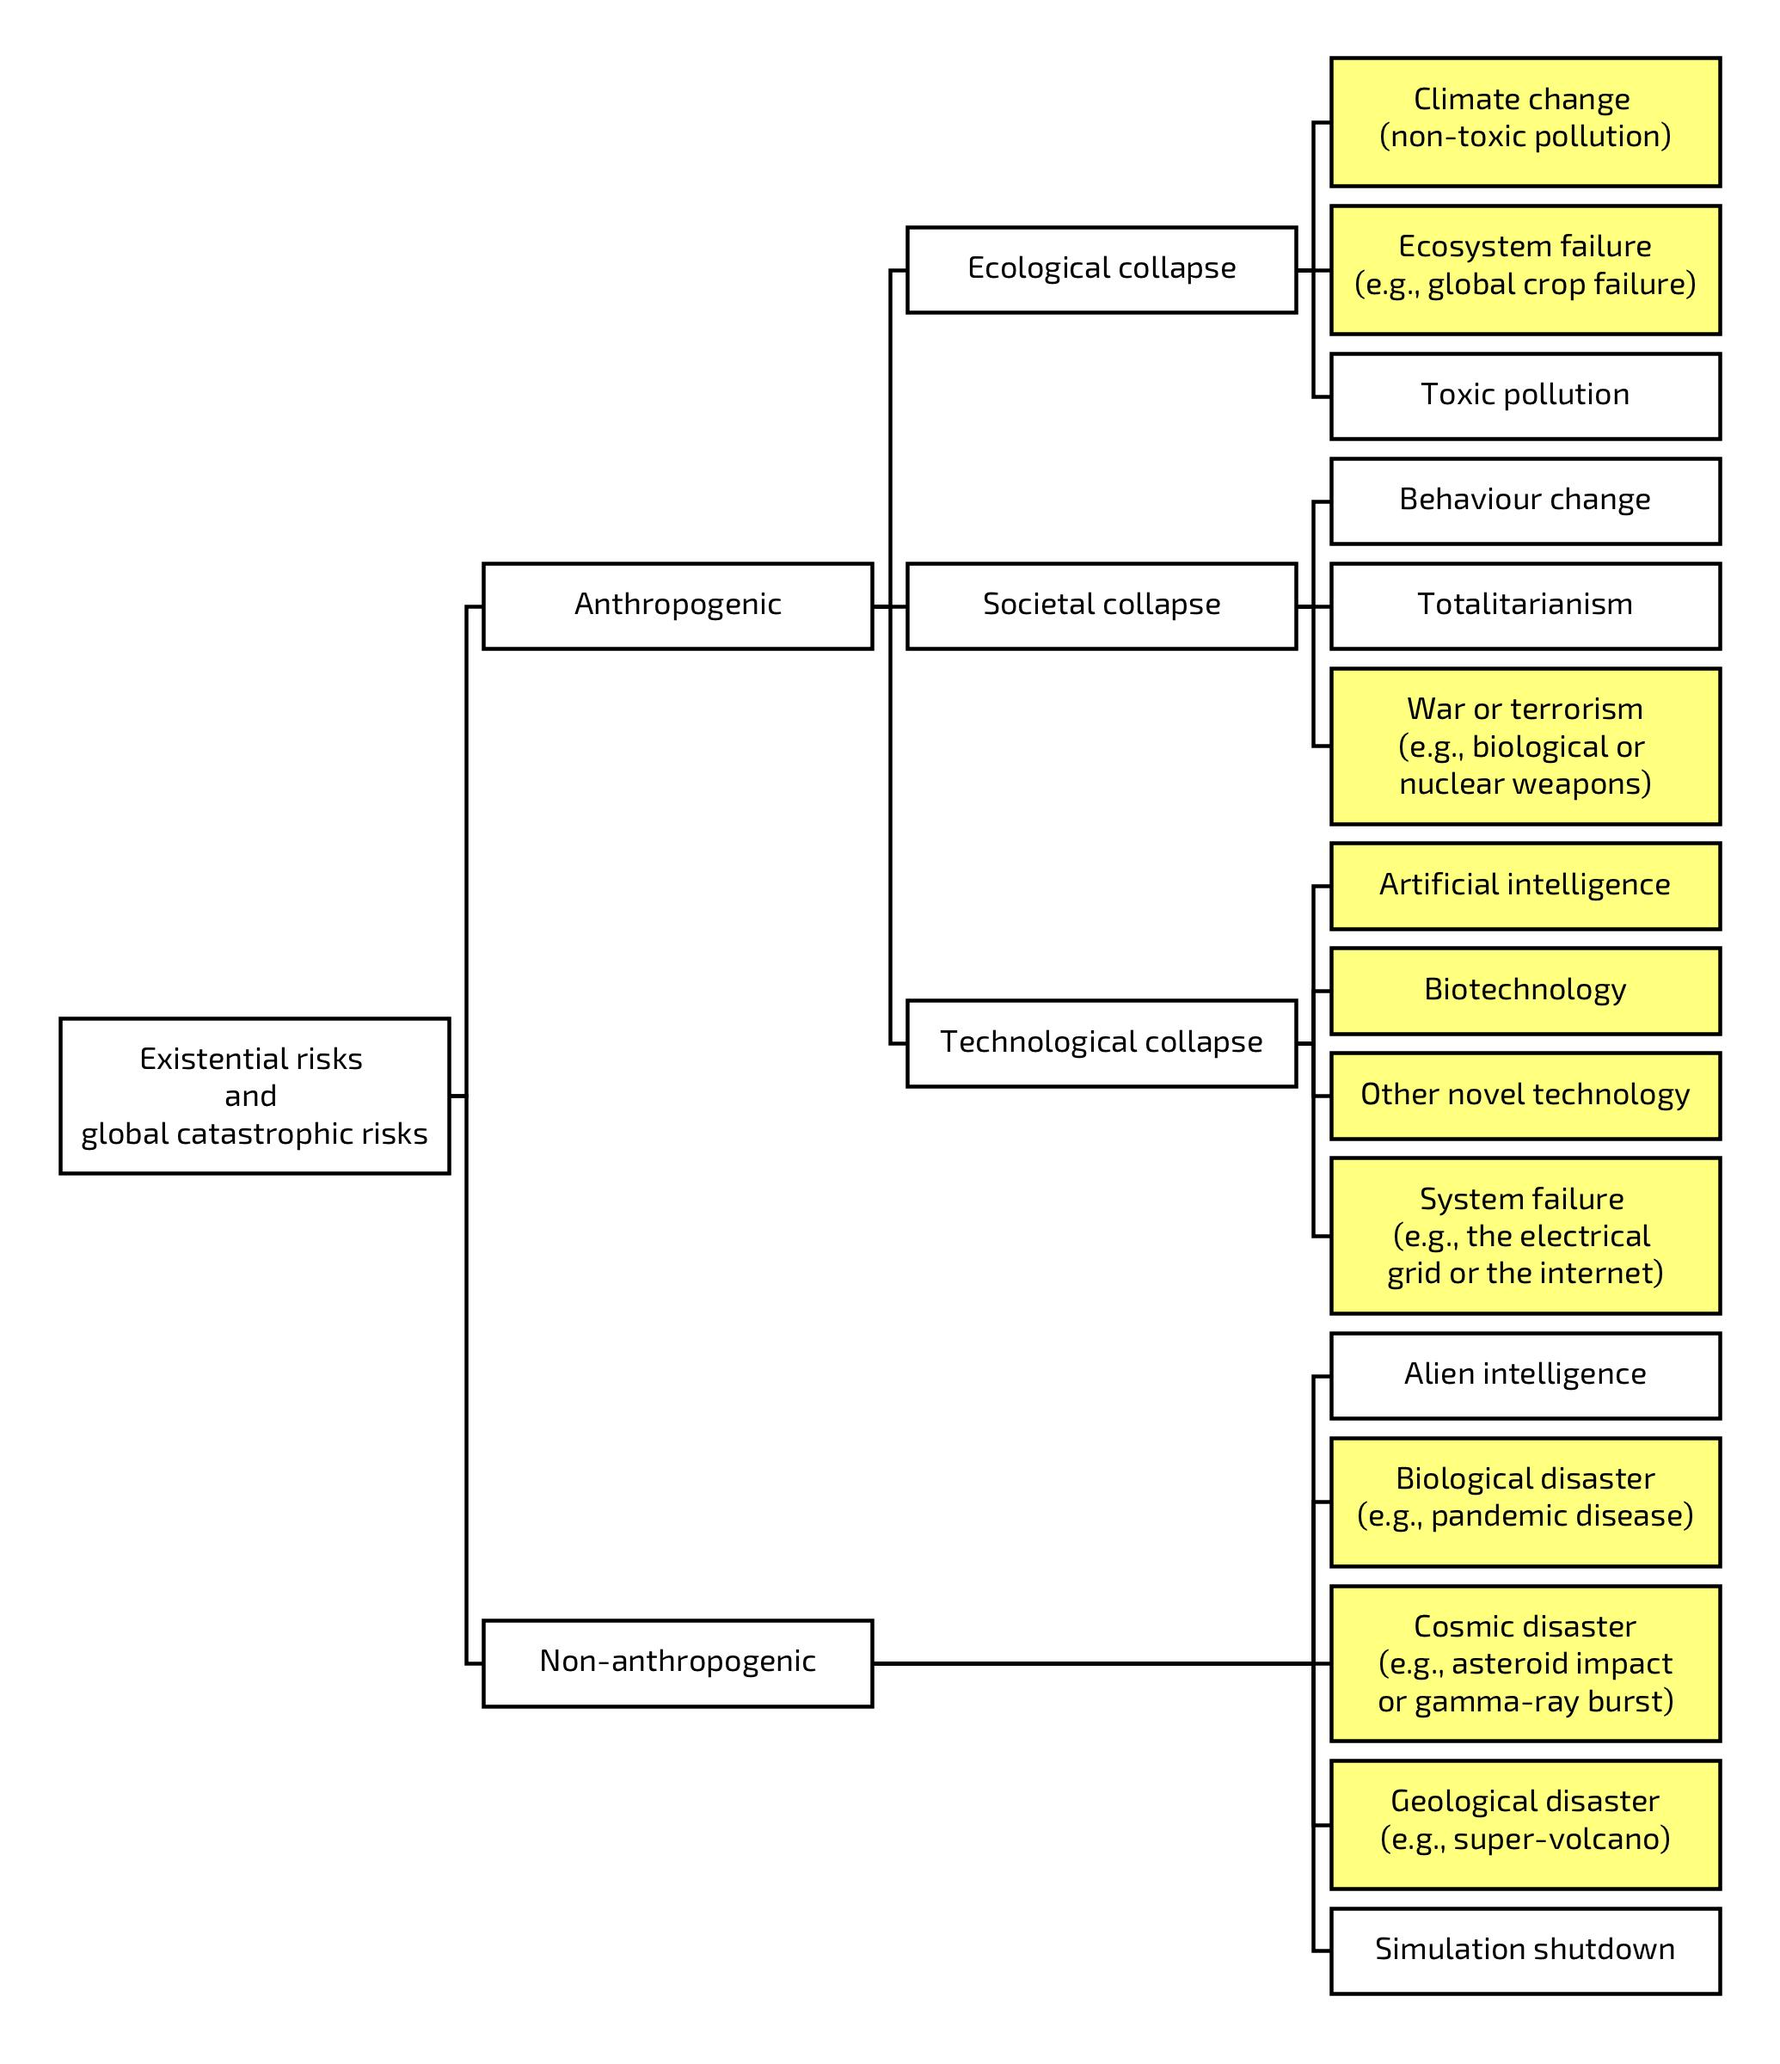
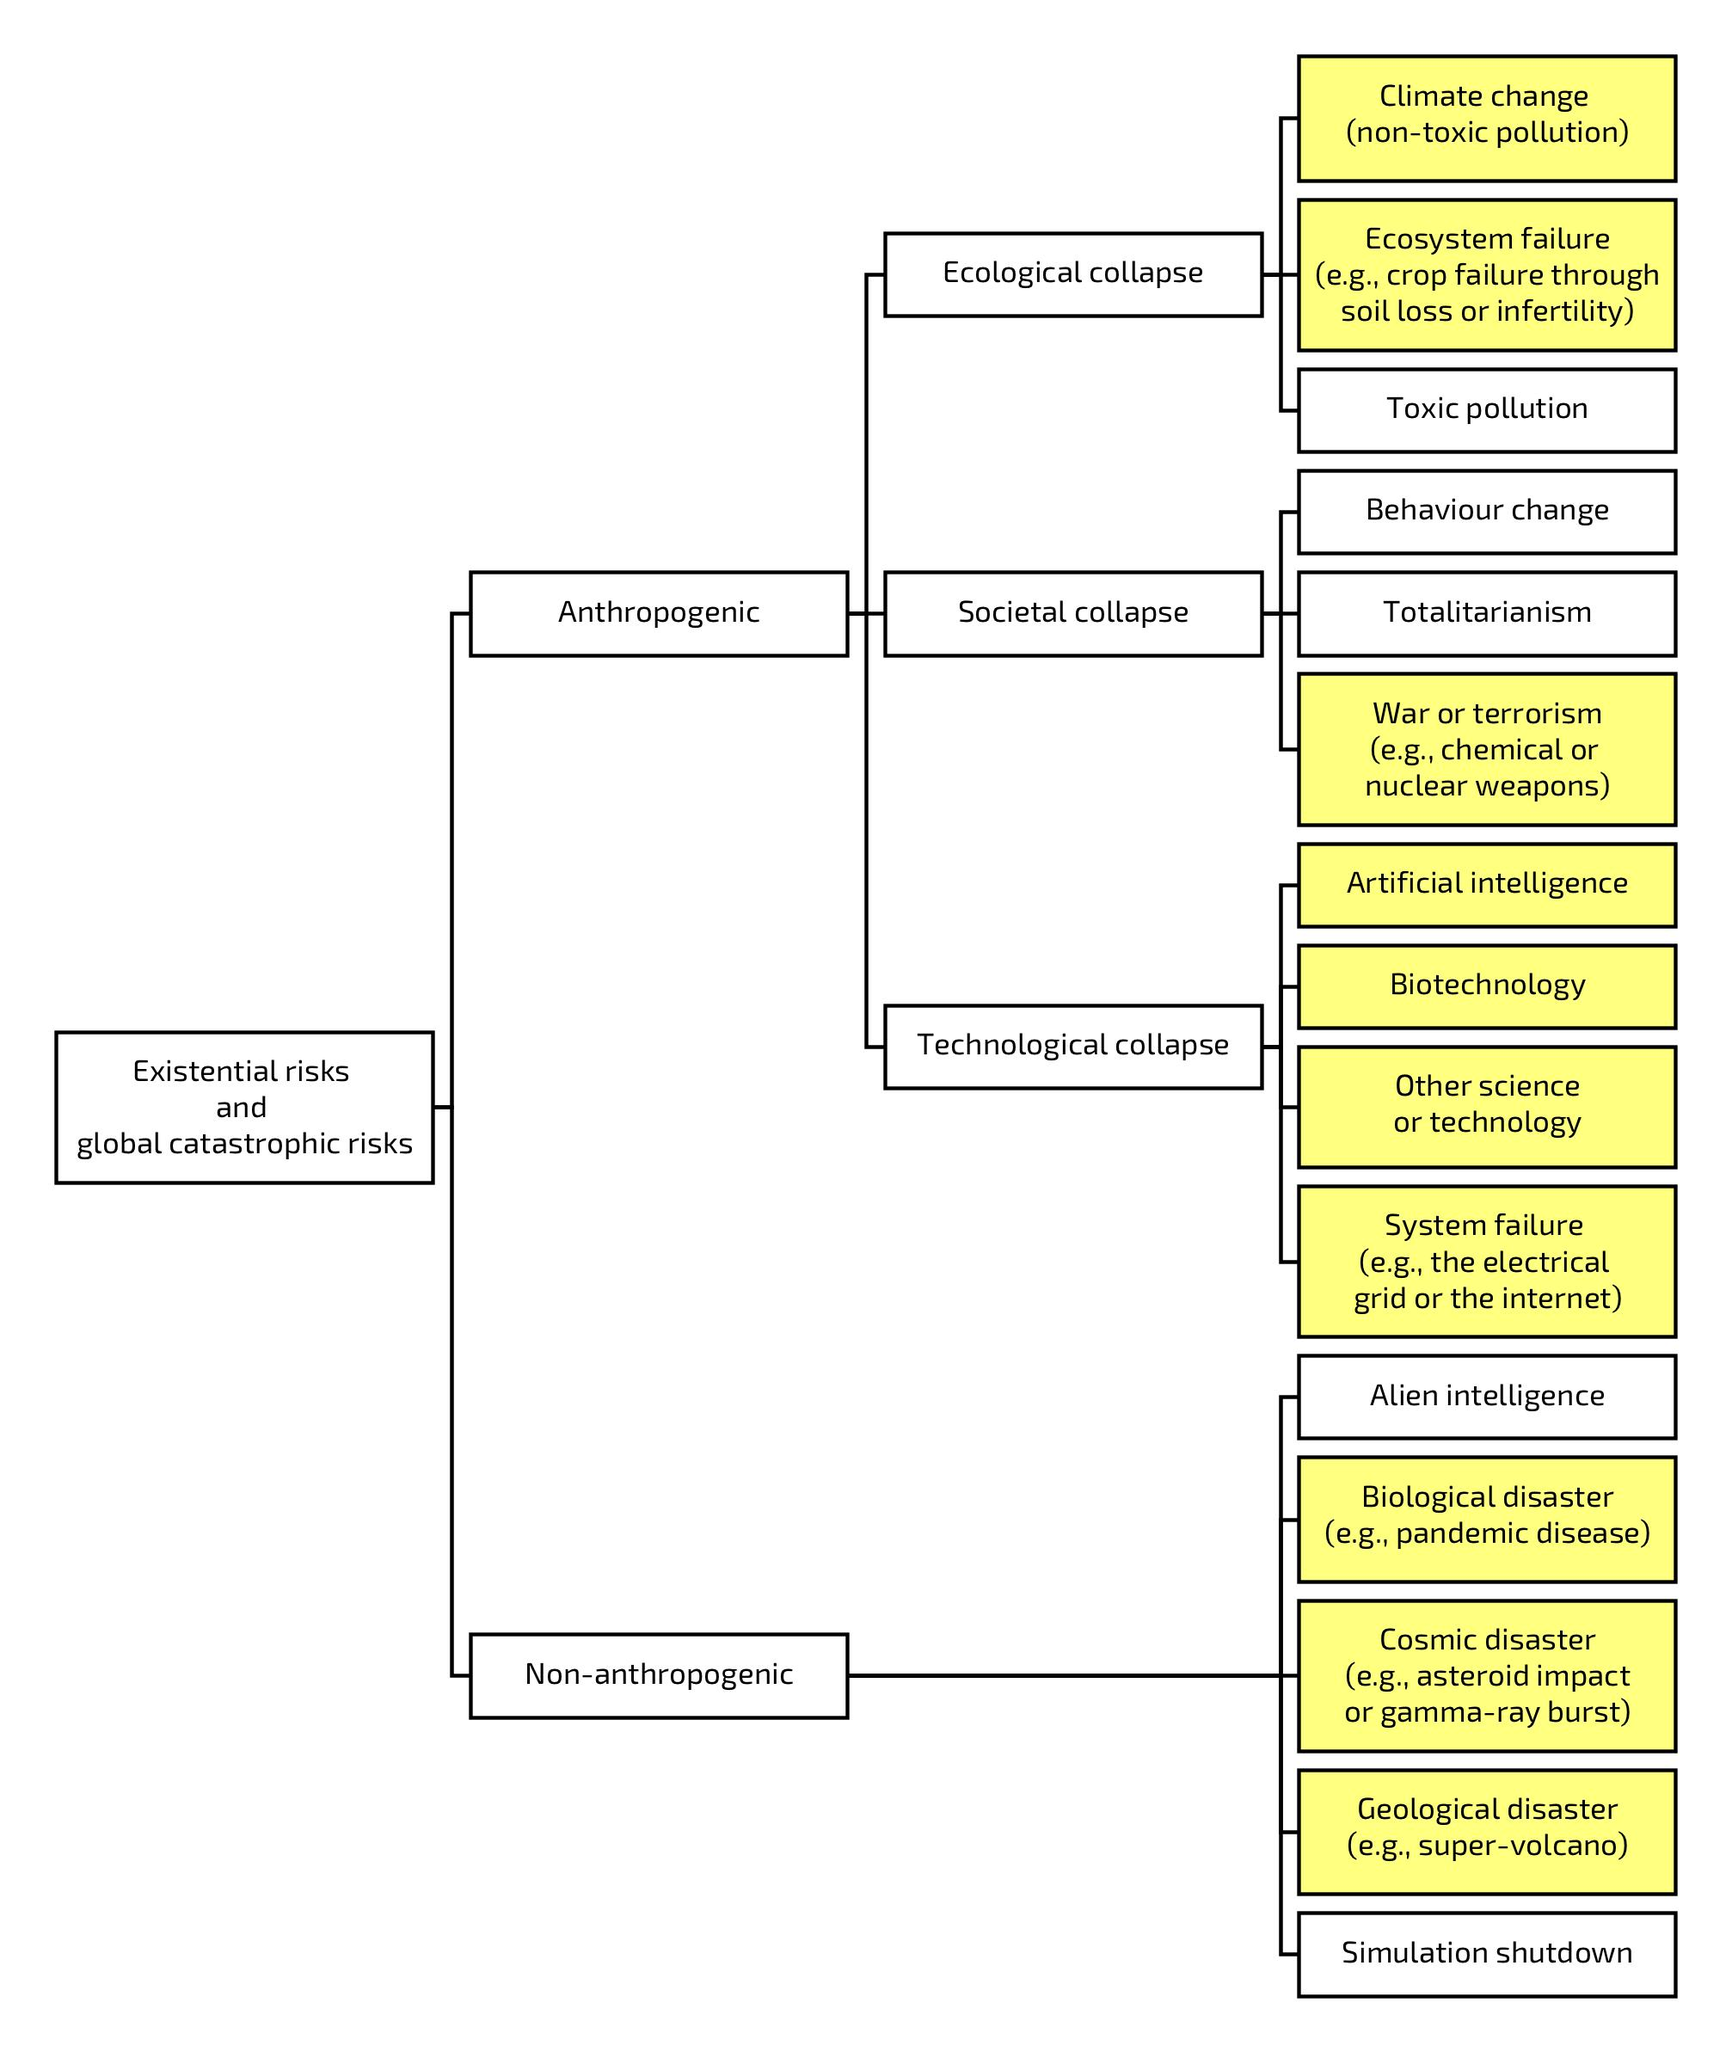
Changed text

Changed region(s): [[0.0308, 0.0312, 0.9851, 0.9688], [0.4926, 0.2812, 0.5233, 0.3125]]

diff --git a/engine/templates/engine/methods.html b/engine/templates/engine/methods.html
@@ -41,7 +41,7 @@
       <p>This category is about changes in biogeochemical cycles (such as the carbon cycle). These changes are not themselves toxic to humans (e.g., the carbon dioxide in the atmosphere is breathable), but the effects of these changes (e.g., catastrophic climate change) could cause human extinction or the end of human civilization. This differentiates this category from "toxic pollution". Publications about atmospheric pollutants and holes in the ozone layer should also be in this category.</p>
 
       <h3>Ecosystem failure</h3>
-      <p>This category is about the loss of ecosystem services (such as food production) as a consequence of ecosystem-service loss (biodiversity loss beyond an ecological tipping point). It may be difficult to differentiate this category from "climate change" (climate regulation is also an ecosystem service), but publications about climate change as a consequence of burning fossil fuels (as opposed to biodiversity loss) should not be in this category. Publications about ecosystem-service failure as a consequence of another catastrophe (e.g., nuclear winter, super-volcano, asteroid impact, or climate change) should not be in this category unless they are about biodiversity loss (e.g., as opposed to crop failure through heat, drought, or photosynthesis failure).</p>
+      <p>This category is about the loss of ecosystem services (such as food production) as a consequence of ecosystem-service loss (biodiversity loss beyond an ecological tipping point). It may be difficult to differentiate this category from "climate change" (climate regulation is also an ecosystem service), but publications about climate change as a consequence of burning fossil fuels (as opposed to biodiversity loss) should not be in this category. Publications about ecosystem-service failure as a consequence of another catastrophe (e.g., nuclear winter, super-volcano, asteroid impact, or climate change) should not be in this category unless they are about biodiversity loss (vs crop failure through heat or drought).</p>
 
       <h3>Toxic pollution</h3>
       <p>We are not focusing on this category, but it is about pollutants as a direct cause of human extinction or the end of human civilization (not as a cause of biodiversity loss or a cause of climate change).</p>
@@ -63,7 +63,7 @@
       <p>Publications about superintelligence should be in this category (but publications on lethal autonomous weapons could also be in "war or terrorism").</p>
       <h3>Biotechnology</h3>
       <p>Publications about synthetic biology and genetic engineering should be in this category (e.g., CRISPR).</p>
-      <h3>Other novel technology</h3>
+      <h3>Other science or technology</h3>
       <p>Publications about physics accidents should be in this category (e.g., the Large Hadron Collider). Publications about geoengineering accidents should also be in this category (and possibly also in "climate change"). Publications about molecular nanotechnology should also be in this category (e.g., grey goo).</p>
       <h3>System failure</h3>
       <p>This category is about the end of human civilization through the failure of the technological systems upon which it depends (e.g., the electrical grid or the internet). Publications about the failure of food supply chains should be in this category.</p>

diff --git a/engine/templates/engine/instructions.html b/engine/templates/engine/instructions.html
@@ -21,7 +21,7 @@
   <h2>Making an Assessment</h2>
   <p>Please see the inclusion criteria for each topic in the <a href="{% url 'methods' %}">Methods</a>. If you think that a publication meets these criteria (based on its title and abstract), then please assess it as "relevant" (tick the box for each topic to which it is relevant, and then click "Save"). If not, then please assess it as "irrelevant" (do not tick the box, and click "Save"). You may need to scroll down to see the abstract.</p>
   <p>It is important to click "Save", even if a publication is completely irrelevant. If you do not click "Save", then we will not know that you have assessed it. After you have clicked "Save", you will be shown the next unassessed publication in the random order that has been assigned to you.</p>
-  <p>If it is impossible to decide whether or not a publication meets the inclusion criteria (based on its title and abstract), it is probably better to either (1) not assess it (do not tick the box or click "Reset" and then click "Next assessment" without clicking "Save") or else (2) assess it as "relevant". We would rather be overly inclusive than overly exclusive. However, this whole process will be useless if every publication is conservatively assessed as "relevant". Wherever possible, we need you to make judgements about whether or not a publication is relevant.</p>
+  <p>If it is impossible to decide whether or not a publication meets the inclusion criteria (based on its title and abstract), it is probably better to either (1) not assess it (do not tick the box or click "Reset" and then click "Pass" without clicking "Save") or else (2) assess it as "relevant". We would rather be overly inclusive than overly exclusive. However, this whole process will be useless if every publication is conservatively assessed as "relevant". Wherever possible, we need you to make judgements about whether or not a publication is relevant.</p>
   <p>There is not a simple formula for "relevant" or "irrelevant", and it is only with a foundation of human judgement that we will be able to build a complicated formula for "relevant" or "irrelevant" through machine learning. Please do your best to make reasonable assessments. We appreciate your time and your humanity!</p>
 
   <h2>Stopping Your Assessment</h2>

diff --git a/engine/templates/engine/assessments.html b/engine/templates/engine/assessments.html
@@ -96,8 +96,8 @@
 
   </form>
 
-  <p>Click "Save" when you have made your assessment (whether or not you think it is relevant). You will then be shown the next assessment in the random order that has been assigned to you.</p>
-  <p>Click "Back" and "Forward" only to revisit your previous assessments (to check or change them), and not to look for your next assessment. That way, your assessments will be made in a random order, which is best practice.</p>
+  <p>Click "Save" when you have made your assessment (whether or not you have ticked a box). You will then be shown the next assessment in the random order that has been assigned to you.</p>
+  <p>Click "Back" and "Forward" only to revisit your previous assessments (to check or change them), but not to look for your next assessment. That way, your assessments will be made in a random order, which is best practice.</p>
 
   <p>
     <a class="button" href="{% url 'assessments' slug=search_topic.slug pk=previous_pk %}">Back</a>
